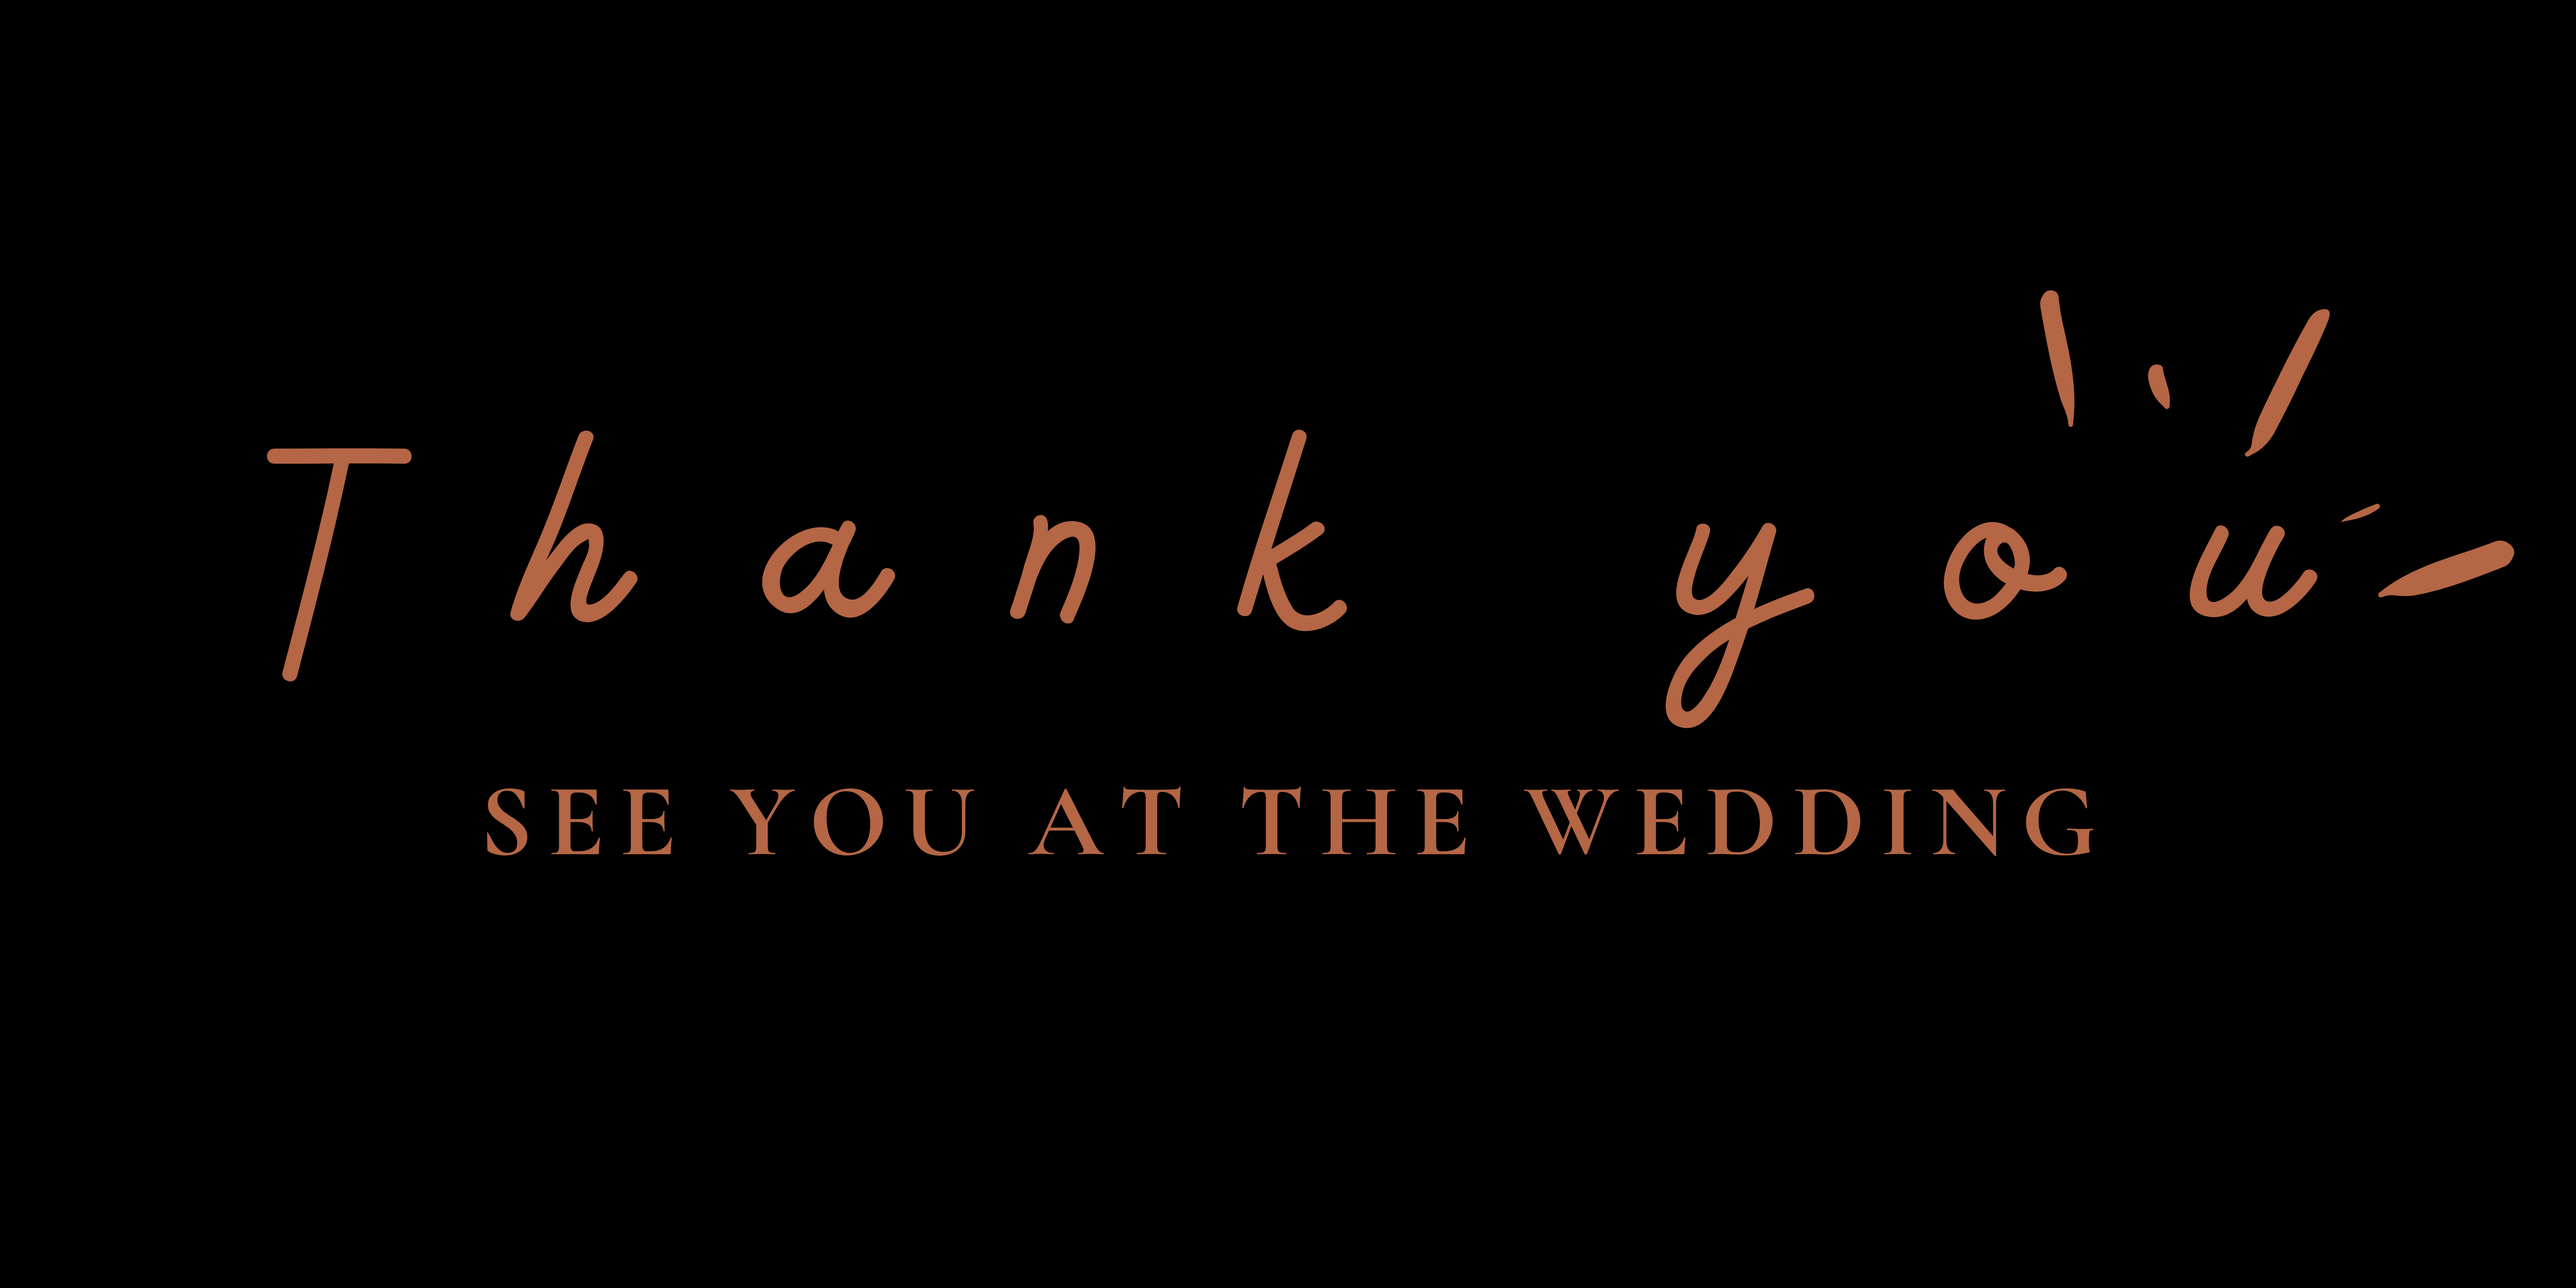
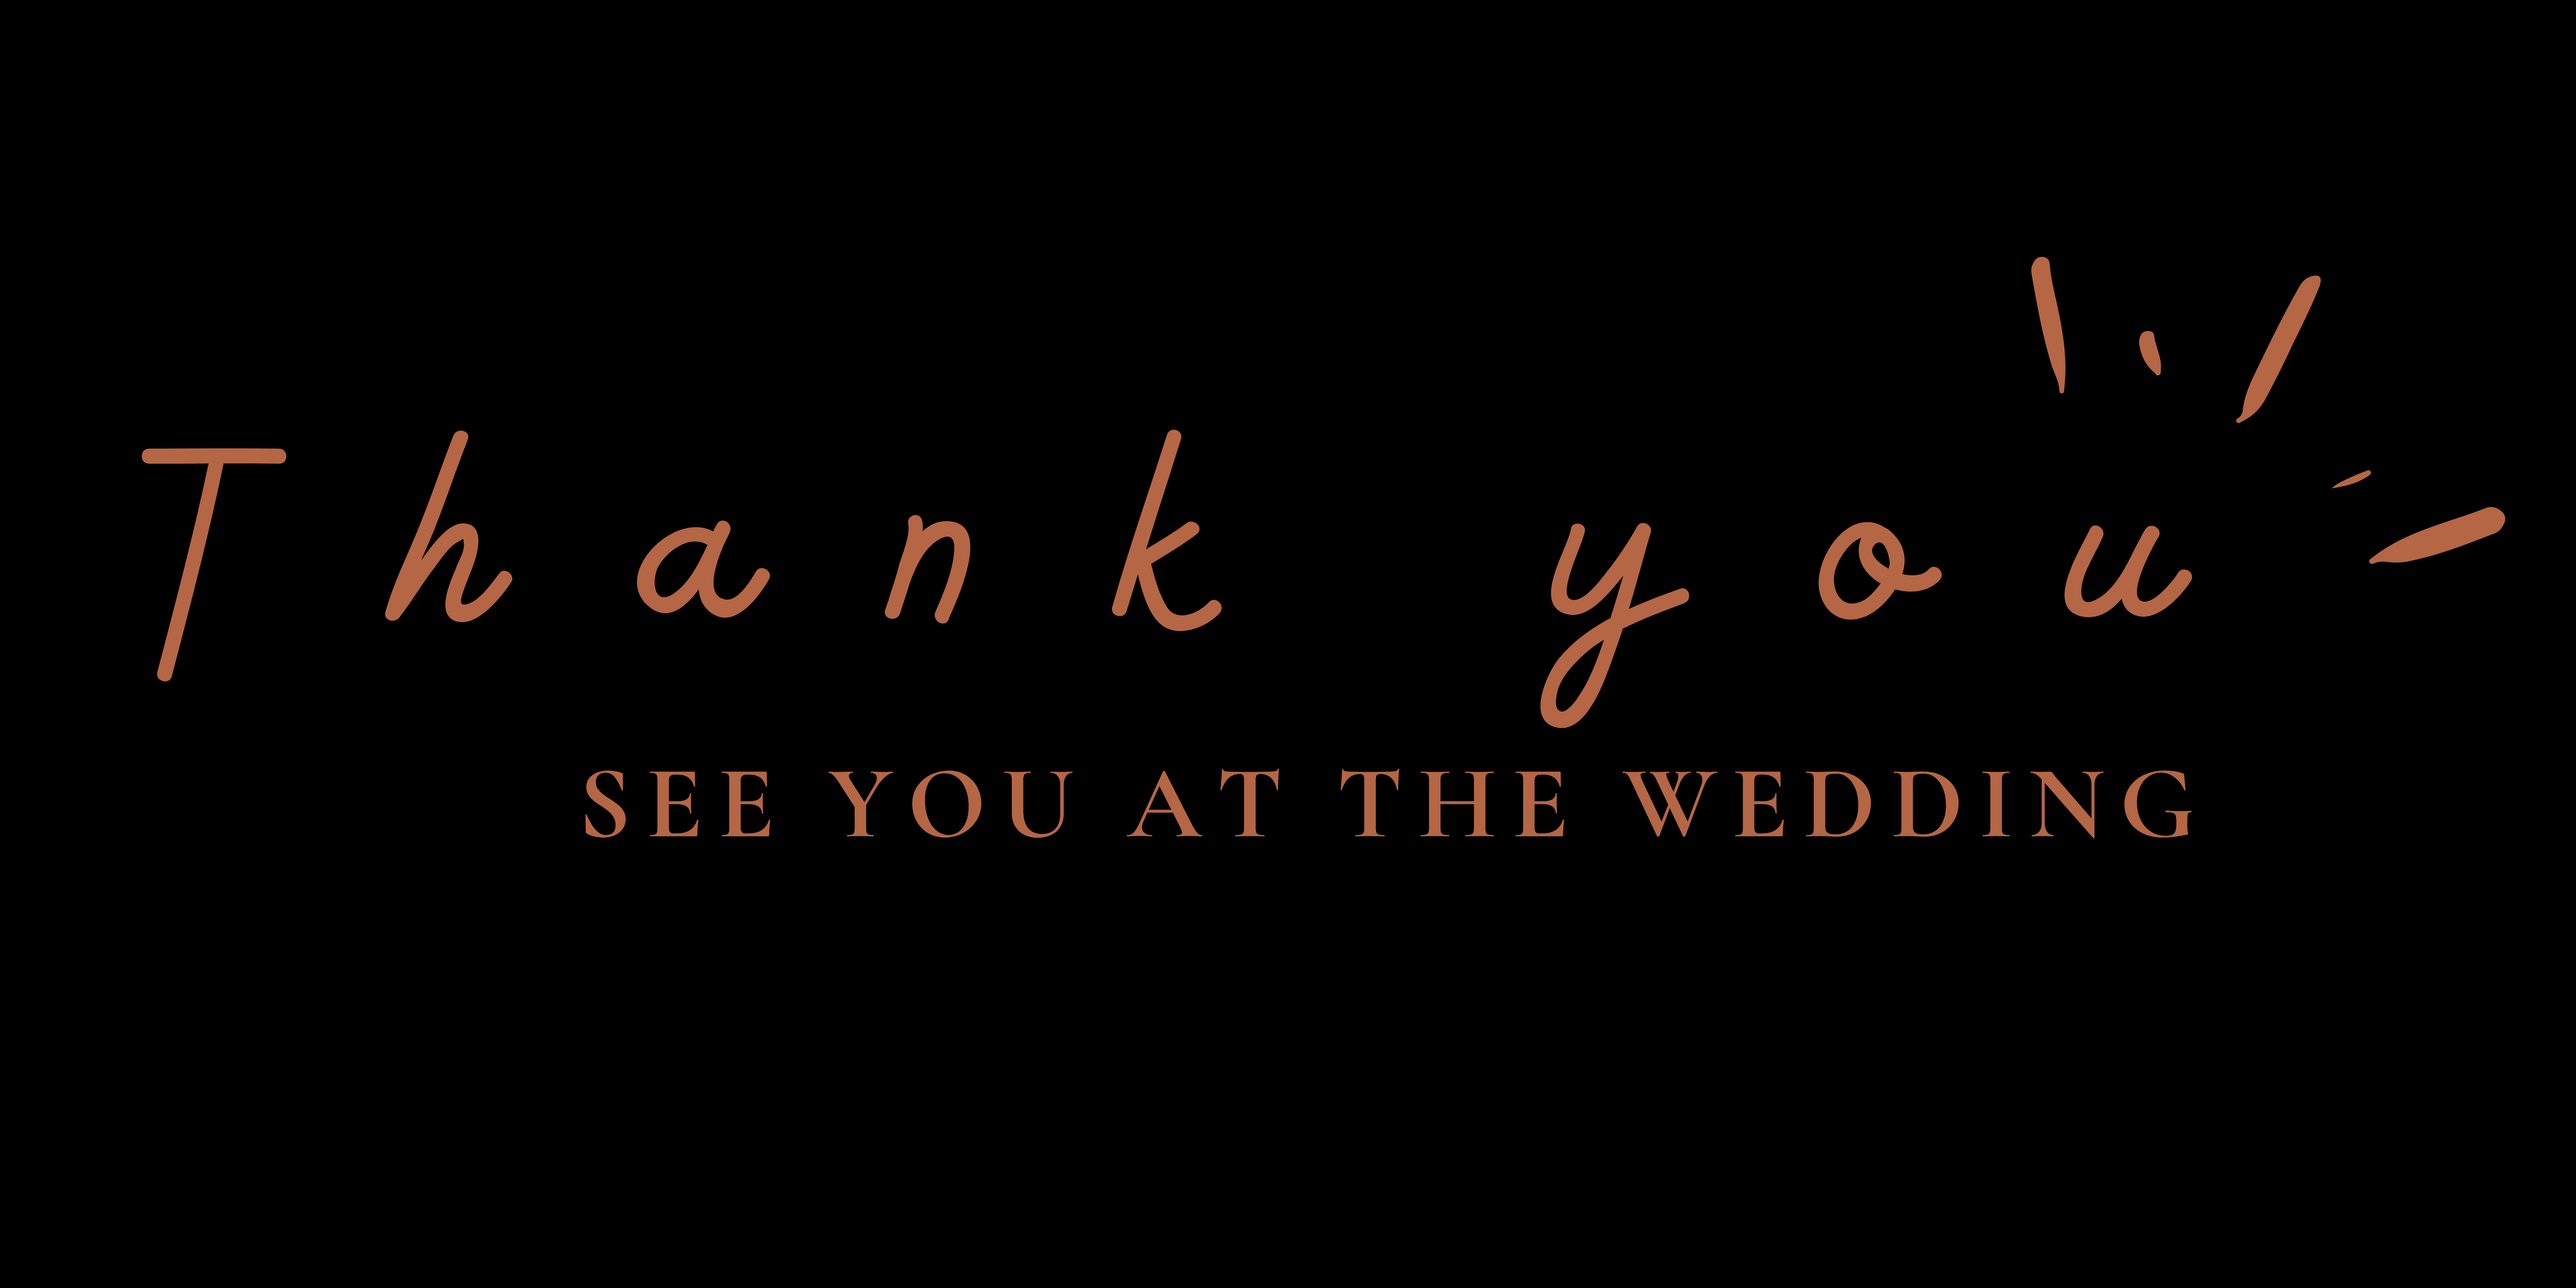
img change

diff --git a/index.html b/index.html
@@ -674,7 +674,7 @@
 
     <!-- footer -->
     <footer>
-      <img src="./img/th1.png" alt="" width="100%" height="600px">
+      <img src="./img/th1.png" alt="" width="100%" height="500px">
     </footer>
 
     <script>
